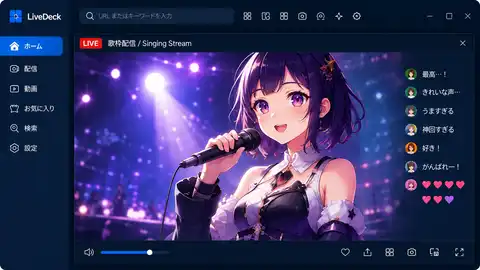
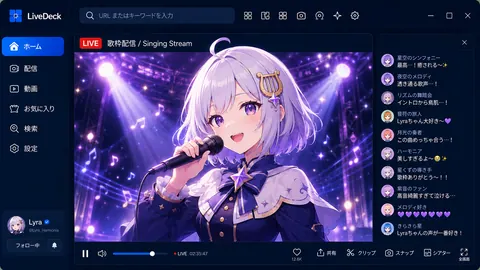
Publish LiveDeck product page v0.8.12

diff --git a/livedeck/index.html b/livedeck/index.html
@@ -47,12 +47,16 @@
     <section id="layouts" class="section layout-showcase-section"><div class="wrap">
       <header class="section-head"><span class="eyebrow">Layouts</span><h2>配信数に合わせて、見やすくレイアウト</h2><p>1枠から4枠まで、見たい配信の数に合わせて表示を切り替え。集中して1つを見るときも、気になる配信をまとめて追いたいときも、実際の見え方をイメージしやすい形で紹介します。</p></header>
       <div class="layout-demo-grid">
-        <article class="layout-demo-card"><img class="layout-demo-image" src="assets/layout-1-stream.webp" alt="LiveDeckの1配信表示レイアウト"><h3>1つの配信を大きく表示</h3><p>1つの配信を大きく表示して、じっくり視聴。歌枠やゲーム実況など、ひとつの配信に集中したいときに便利です。</p></article>
+        <article class="layout-demo-card"><img class="layout-demo-image" src="assets/layout-1-stream.webp" alt="LiveDeckでLyraの歌枠を1配信表示した紹介イメージ"><h3>1つの配信を大きく表示</h3><p>Lyraの歌枠のように、1つの配信を大きく表示してじっくり視聴。コメントや画面を追いながら、ひとつの配信に集中したいときに便利です。</p></article>
         <article class="layout-demo-card"><img class="layout-demo-image" src="assets/layout-2-stream.webp" alt="LiveDeckの2配信表示レイアウト"><h3>2つの配信を並べてチェック</h3><p>気になる2つの配信を左右に並べて同時に視聴。推しの配信を見ながら、別の配信も追いたいときに役立ちます。</p></article>
         <article class="layout-demo-card"><img class="layout-demo-image" src="assets/layout-3-stream.webp" alt="LiveDeckの3配信表示レイアウト"><h3>メイン＋サブで見やすく整理</h3><p>よく見たい配信を大きめに、ほかの2配信をサブ表示。メインを見失わずに、他の配信の様子もまとめて確認できます。</p></article>
         <article class="layout-demo-card"><img class="layout-demo-image" src="assets/layout-4-stream.webp" alt="LiveDeckの4配信表示レイアウト"><h3>最大4配信をまとめて表示</h3><p>4つの配信を一覧で表示して、まとめて視聴。複数人の配信を追いたいときや、いろいろ見比べたいときにぴったりです。</p></article>
       </div>
       <p class="layout-demo-note">画面例の配信映像は紹介用イメージです。実際の表示内容は各配信サービスや視聴ページによって異なります。</p>
+    </div></section>
+    <section class="section scene-showcase-section"><div class="wrap scene-showcase-grid">
+      <div class="scene-showcase-copy"><span class="eyebrow">Scenes</span><h2>歌枠だけじゃない。雑談も、いつもの配信も。</h2><p>1つを大きく見るときも、複数を並べるときも、LiveDeckは配信内容を選びません。Elinaの雑談枠のように、コメントを眺めながらゆったり見る使い方にも自然に馴染みます。</p><div class="scene-chips" aria-label="紹介シーン"><span>Lyra · 歌枠</span><span>Elina · 雑談</span></div><small>掲載画像はLiveDeckの利用イメージを示すプロモーション用の架空配信です。</small></div>
+      <figure class="scene-showcase-visual"><img src="assets/livedeck-elina-chatting.webp" alt="LiveDeckでElinaの雑談枠を視聴する紹介イメージ"><figcaption>Elina / 雑談配信</figcaption></figure>
     </div></section>
     <section class="section soft"><div class="wrap usage-grid"><div class="section-head compact"><span class="eyebrow">How to use</span><h2>追加して、並べて、見る。</h2><p>普段の配信視聴を大きく変えず、ブラウザで開いていたページをLiveDeckの枠にまとめる感覚で使えます。</p></div><ol class="steps"><li><span>1</span><div><strong>配信枠を追加</strong><p>見たいサービスを選んで配信を開きます。</p></div></li><li><span>2</span><div><strong>見やすく配置</strong><p>自動レイアウトや表示倍率で画面を整えます。</p></div></li><li><span>3</span><div><strong>お気に入りを残す</strong><p>よく見る配信先は次回すぐ開けるよう保存できます。</p></div></li></ol></div></section>
     <section id="services" class="section"><div class="wrap service-wrap"><header class="section-head compact"><span class="eyebrow">Services</span><h2>いろいろな配信サービスを、同じLiveDeckへ。</h2><p>サービスごとに検索方法やWeb画面の仕様は異なりますが、LiveDeckでは配信枠としてまとめて表示できます。</p></header><div class="service-list"><span>Twitch</span><span>YouTube Live</span><span>TwitCasting</span><span>SHOWROOM</span><span>Kick</span><span>mellow-fan</span><span>Mirrativ</span></div><p class="service-note">各サービスの名称・商標は各権利者に帰属します。LiveDeckは各サービスの公式アプリではありません。</p></div></section>

diff --git a/livedeck/site.css b/livedeck/site.css
@@ -109,3 +109,8 @@ body{overflow-x:hidden}.hero-grid>*{min-width:0}.app-window,.app-titlebar,.app-a
 .publisher-lockup{display:flex;align-items:center;gap:10px;min-width:0;color:#17345c;text-decoration:none}.publisher-lockup img{display:block;width:118px;height:auto;flex:0 0 auto}.publisher-lockup>span{color:#91a5bf;font-weight:700}.publisher-lockup>strong{font-size:.96rem;color:#17345c;white-space:nowrap}.layout-showcase-section{padding-top:58px;background:linear-gradient(180deg,#fff 0%,#f5f9ff 100%)}.layout-demo-grid{display:grid;grid-template-columns:repeat(2,minmax(0,1fr));gap:18px}.layout-demo-card{padding:15px;border:1px solid #d8e5f4;border-radius:18px;background:rgba(255,255,255,.94);box-shadow:0 12px 30px rgba(38,82,140,.08)}.layout-demo-card h3{margin:15px 2px 7px;color:#17345c;font-size:1rem;line-height:1.45}.layout-demo-card p{margin:0 2px;color:#5e6d83;font-size:.82rem;line-height:1.7}.layout-demo-image{display:block;width:100%;height:auto;aspect-ratio:16/9;object-fit:cover;border:1px solid #aac4e5;border-radius:13px;background:#0f223e;box-shadow:0 10px 24px rgba(25,59,104,.14)}.layout-demo-note{margin:16px auto 0;text-align:center;color:#7890ad;font-size:.72rem;line-height:1.6}
 @media(max-width:980px){.layout-demo-grid{grid-template-columns:1fr}}
 @media(max-width:640px){.publisher-lockup{gap:7px}.publisher-lockup img{width:92px}.publisher-lockup>span{font-size:.8rem}.publisher-lockup>strong{font-size:.82rem}.layout-showcase-section{padding-top:46px}.layout-demo-grid{gap:12px}.layout-demo-card{padding:12px}.layout-demo-note{text-align:left}}
+
+/* Main-character promotional viewing scenes. */
+.scene-showcase-section{padding-top:58px;background:#fff}.scene-showcase-grid{display:grid;grid-template-columns:minmax(0,.72fr) minmax(500px,1.28fr);gap:42px;align-items:center}.scene-showcase-copy h2{font-size:clamp(1.7rem,2.7vw,2.45rem);line-height:1.28;letter-spacing:-.035em;color:#17345c;margin:12px 0 14px}.scene-showcase-copy p{margin:0;color:#657089;font-size:.96rem}.scene-showcase-copy small{display:block;margin-top:16px;color:#8290a5;font-size:.72rem;line-height:1.6}.scene-chips{display:flex;flex-wrap:wrap;gap:8px;margin-top:19px}.scene-chips span{padding:7px 11px;border:1px solid #d8e5f4;border-radius:999px;background:#f4f8ff;color:#4168a6;font-size:.78rem;font-weight:800}.scene-showcase-visual{margin:0;min-width:0}.scene-showcase-visual img{display:block;width:100%;height:auto;aspect-ratio:16/9;object-fit:cover;border:1px solid #aac4e5;border-radius:15px;background:#0f223e;box-shadow:0 18px 42px rgba(25,59,104,.16)}.scene-showcase-visual figcaption{margin-top:9px;text-align:right;color:#7890ad;font-size:.72rem}
+@media(max-width:900px){.scene-showcase-grid{grid-template-columns:1fr;gap:24px}.scene-showcase-copy{max-width:720px}.scene-showcase-visual figcaption{text-align:left}}
+@media(max-width:640px){.scene-showcase-section{padding-top:46px}.scene-showcase-copy h2{font-size:clamp(1.55rem,7vw,2.05rem)}.scene-showcase-visual img{border-radius:12px}}
